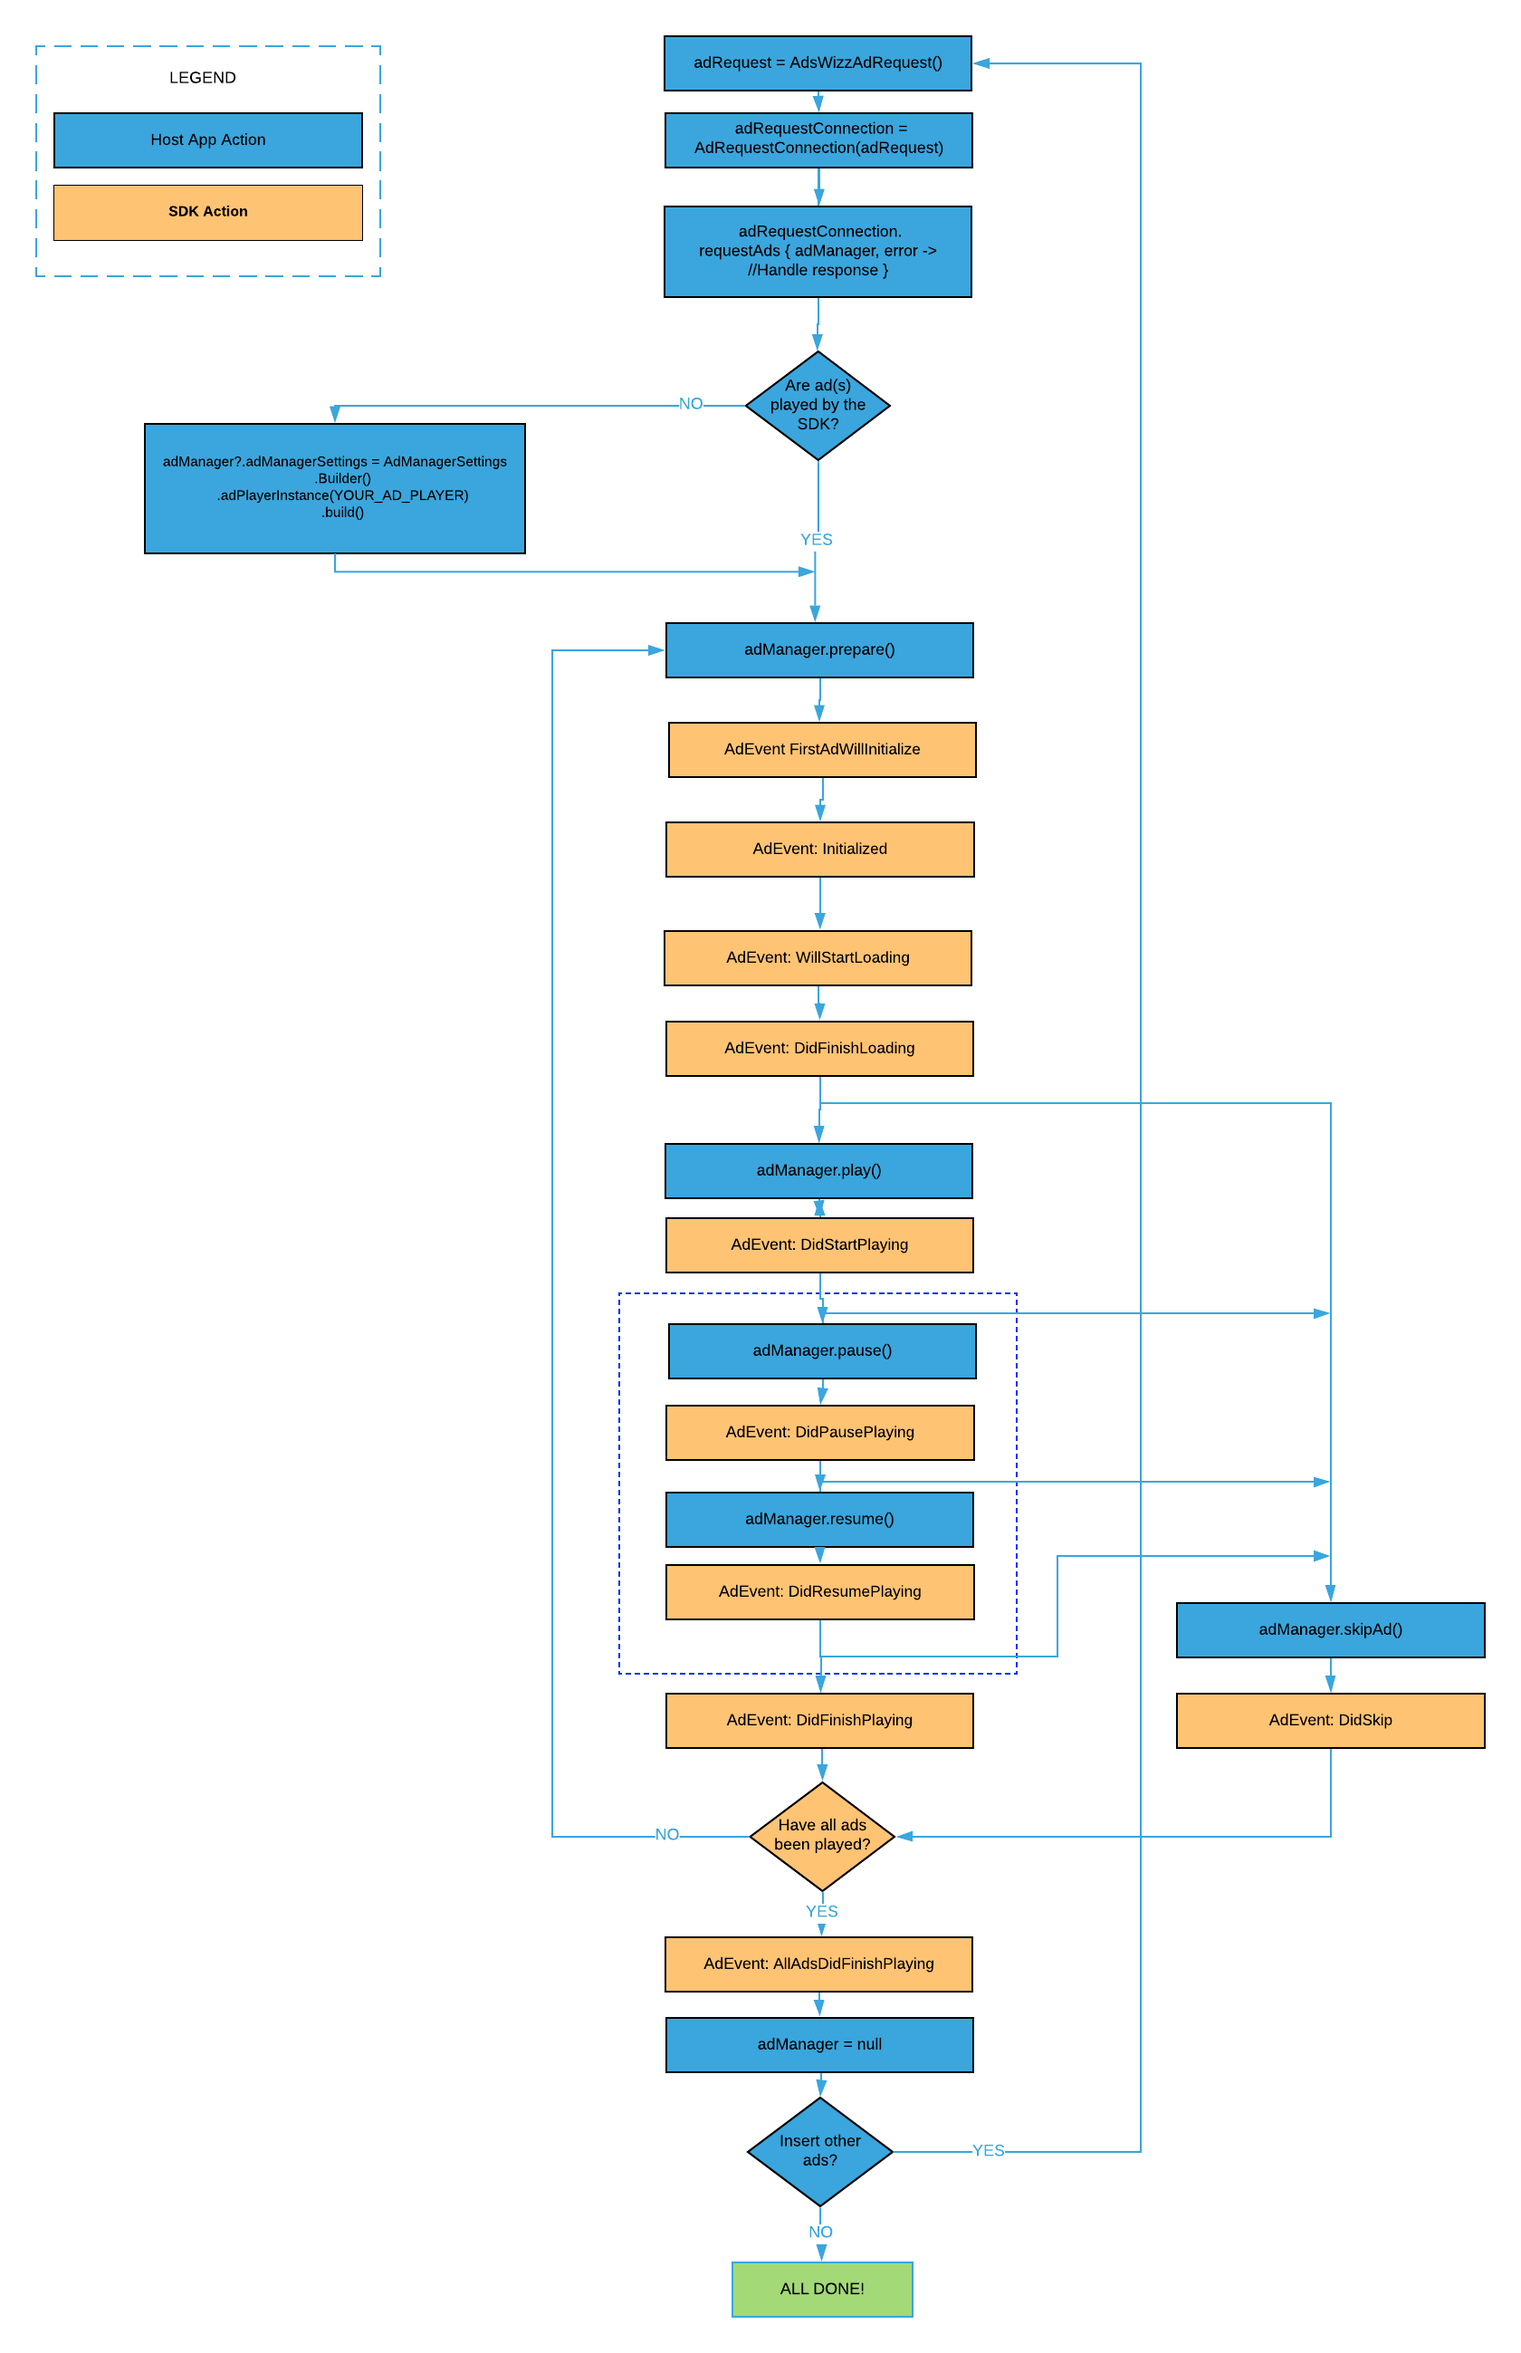
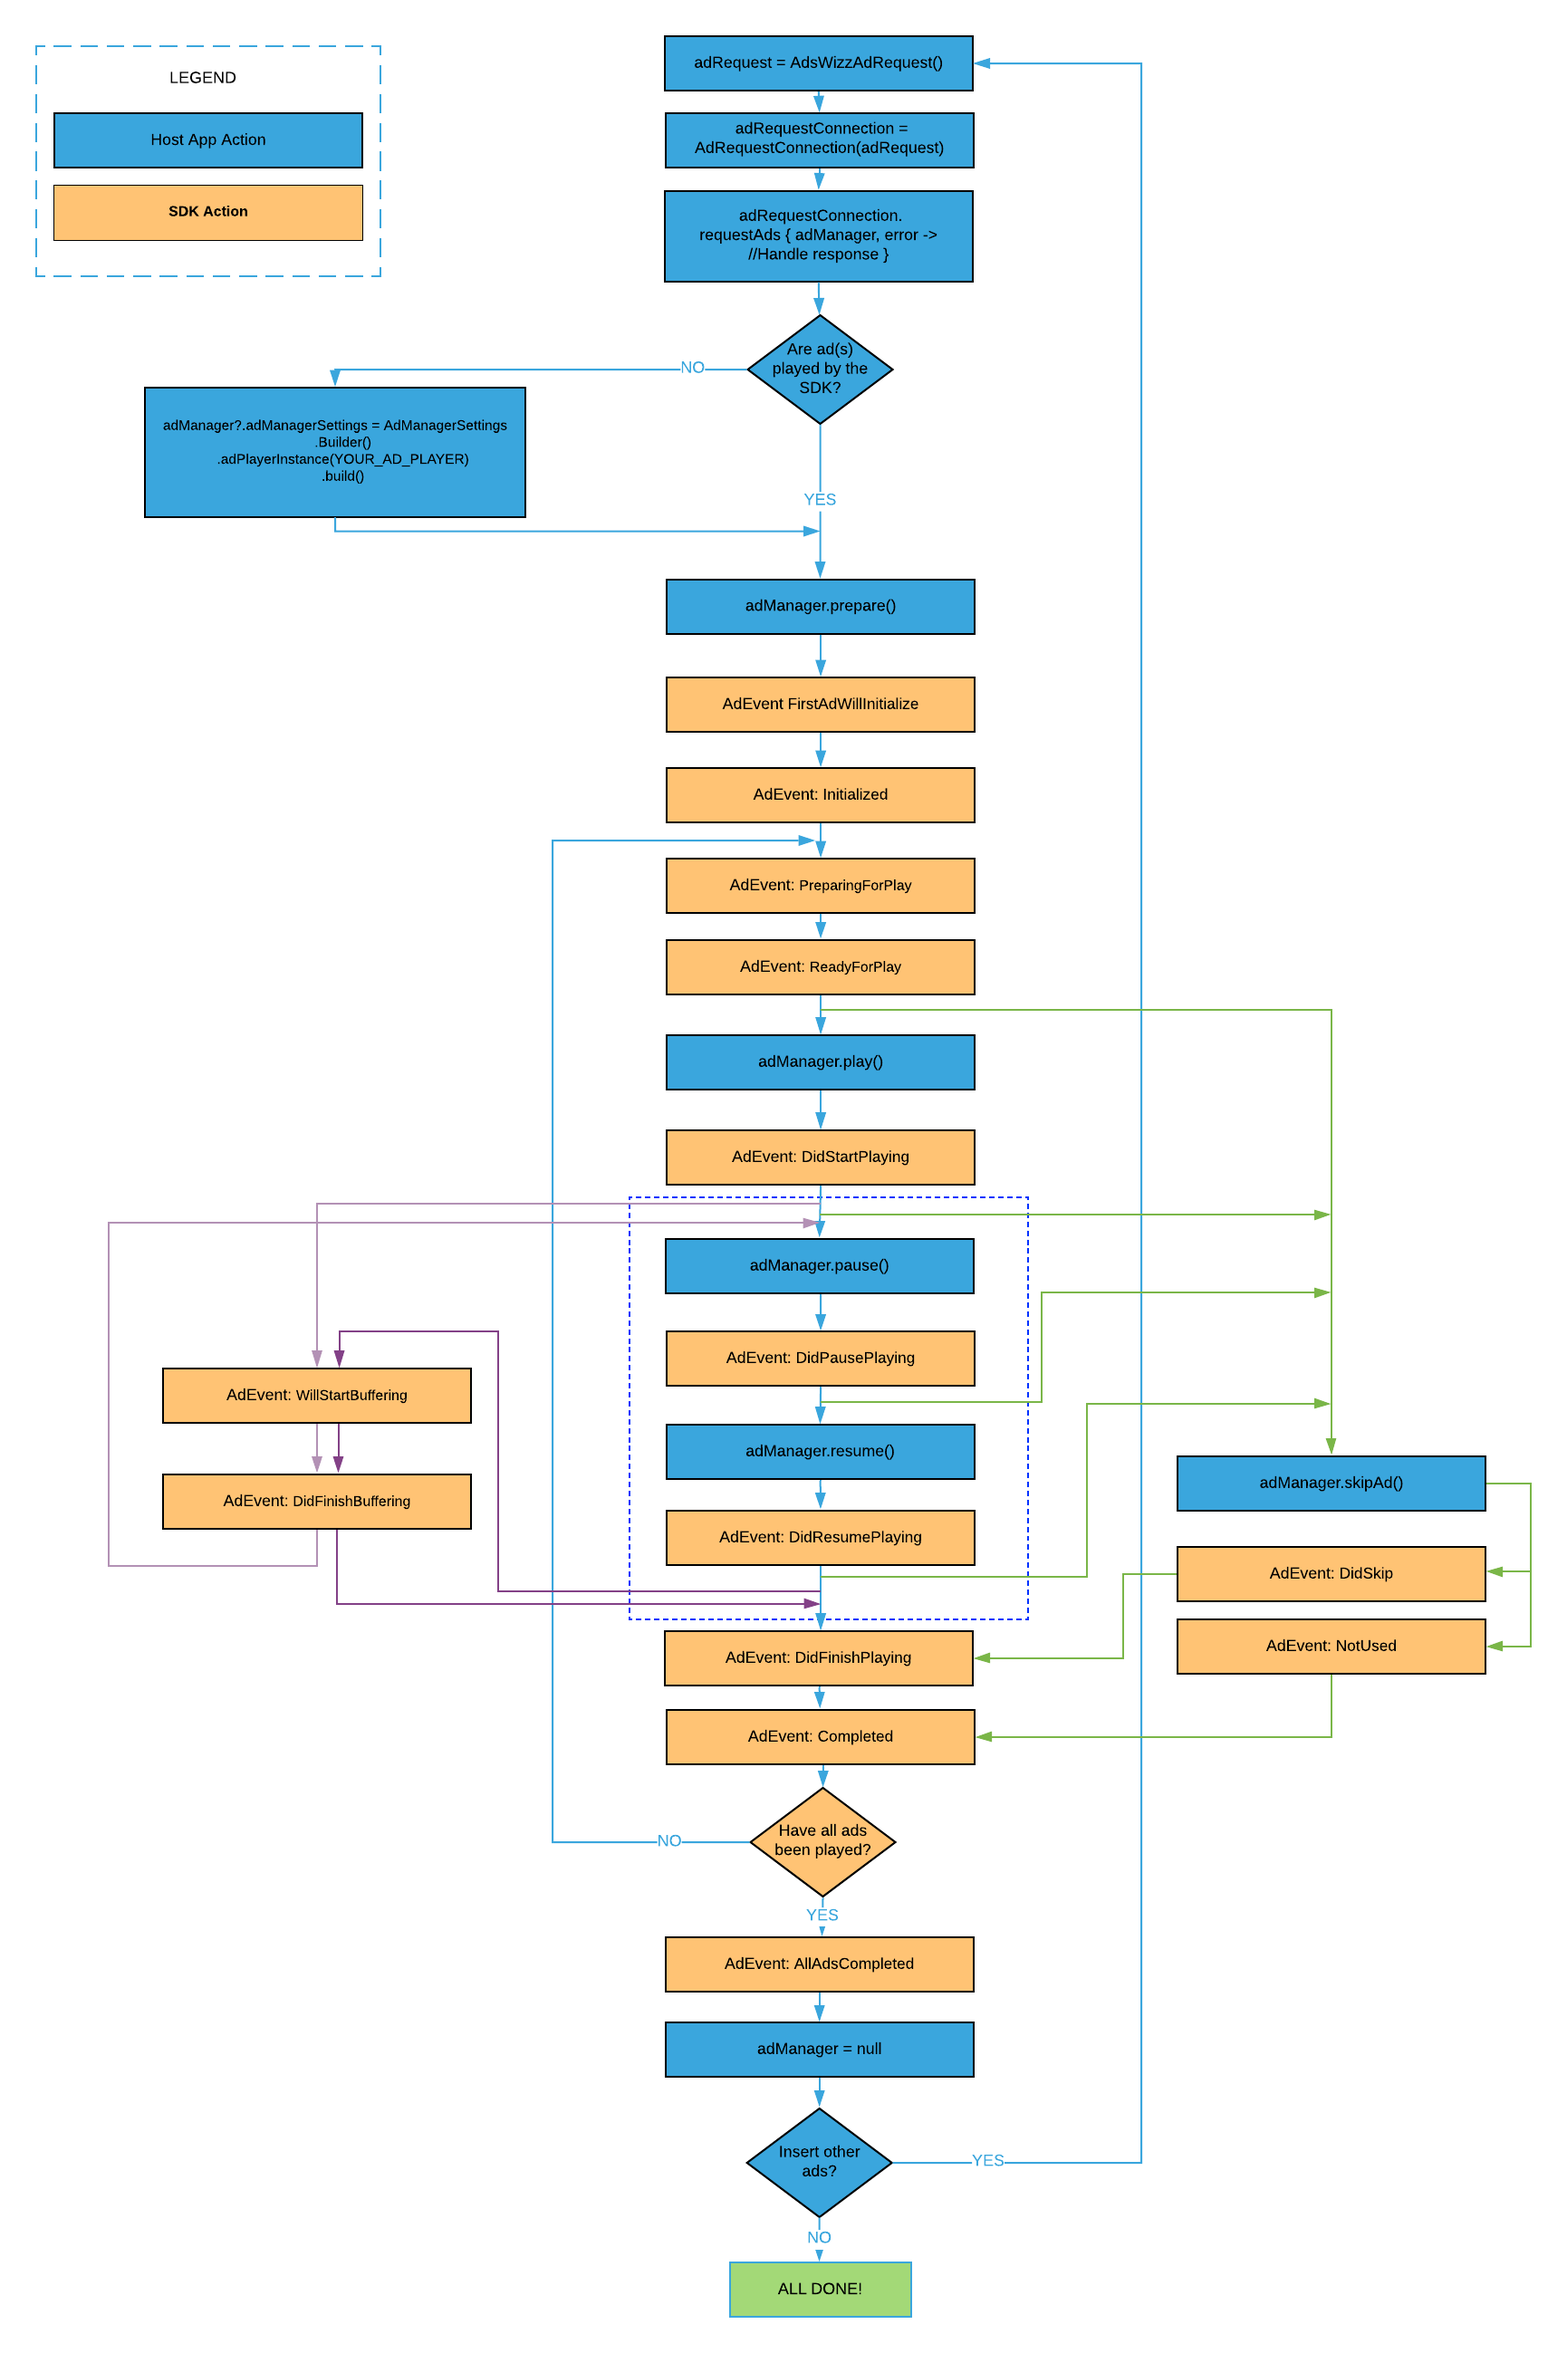
AdManager update

diff --git a/documentation/README.md b/documentation/README.md
@@ -318,18 +318,18 @@ As a result, of this call the SDK will provide you with an error if the call was
 
 ## Working with AdManager object
 
-If the request to the AdsWizz Ad server was a success, the SDK will return an AdManager object which you will own and will be the way the SDK will communicate events back to your application. \
+If the request to the AdsWizz Ad server was a success, the SDK will return an AdManager object which you will own and will be the way the SDK will communicate events back to your application.
 To get this communication channel open, you need to set up a listener for the AdManager that conforms to the AdManagerListener interface. The AdManager will call:
 
 `onEventReceived(adManager: AdManager, event: AdEvent)` whenever events of interest might happen in the SDK. Consult AdEvent.Type for a list of possible events from the AdswizzSDK.
 
-If an error happens in the SDK while using this object, `onEventErrorReceived(adManager: AdManager, ad: AdData?, error: Error)` will be called
+If an error happens in the SDK while using this object, `onEventErrorReceived(adManager: AdManager, ad: AdData?, error: Error)` will be called.
 
 As a first step, an **_AdManager_** needs to have some settings. You can create an **_AdManagerSettings_** object and pass it to your newly created instance of **_AdManager_**.
 In this object you can specify if you want to play the ad with the SDK’s internal player or a player of your choice that must conform to **_AdPlayer_** interface.
 
 Next, you need to call prepare method on the **_AdManager_** object.
-This will buffer the ads if you decide the play them with the internal player. Here is how it looks like.
+This will buffer the ads if you decide to play them with the internal player. Here is how it looks like.
 
 ```kotlin
 class MainActivity : AppCompatActivity(), AdManagerListener {
@@ -369,13 +369,13 @@ class MainActivity : AppCompatActivity(), AdManagerListener {
 
     override fun onEventReceived(adManager: AdManager, event: AdEvent) {
         when(event.type) {
-            AdEvent.Type.State.DidFinishLoading ->  {
+            AdEvent.Type.State.ReadyForPlay ->  {
                 adManager.play() //Start playing the next ad in the AdManager
             }
             AdEvent.Type.State.DidFinishPlaying -> {
                 // Current ad has finished playing
             }
-            AdEvent.Type.State.AllAdsDidFinishPlaying -> {
+            AdEvent.Type.State.AllAdsCompleted -> {
                 // All ads from the AdManager have finished
             }
 
@@ -397,15 +397,12 @@ Once presented with an AdManager, one could call different actions on the AdMana
 ## AdManager interface
 ### prepare
 
-You call this method to begin to cycle through the ads in the AdManager. If you decided to let the SDK handle the
-playing of the ads this method ensures that the internal player is starting to buffer enough data so that ad playing
-starts smoothly. Upon calling this method the first ad starts loading. The SDK will trigger
-**_WillStartLoading_** event informing your app that buffering has begun for the ad. Once buffering is done, **_DidFinishLoading_** event for the first ad will be triggered.
+You call this method to begin to cycle through the ads in the AdManager. This method ensures that the player is starting to buffer enough data so that ad playing starts smoothly. Upon calling this method the first ad starts loading. The SDK will trigger **_PreparingForPlay_** event informing your app that buffering has begun for the ad. Once buffering is done, **_ReadyForPlay_** event for the first ad will be triggered.
 
 
 ### play
 
-Call **_play_** when you want to play the ads. This should be done after the callback **_DidFinishLoading_** was triggered. The SDK will respond with the callback **_DidStartPlaying_**. If the playing was pause use **_resume_** function instead, to resume playing.
+Call **_play_** when you want to play the ads. This should be done after the callback **_ReadyForPlay_** was triggered. The SDK will respond with the callback **_DidStartPlaying_**. If the playing was pause use **_resume_** function instead, to resume playing.
 
 
 ### pause
@@ -421,15 +418,15 @@ Call **_resume_** when you want to play the ads after a pause. The SDK will trig
 ### skipAd
 
 If you need to skip an ad you can call this method to skip the current ad from the AdManager. Your app will receive
-a **_DidSkip_** event for the current ad and if the AdManager has a new ad you will receive
-**_WillStartLoading_** for that one. If no ads are available, an **_AllAdsDidFinishPlaying_** will be sent,
-signaling that all ads got processed in the AdManager.
+a **_DidSkip_** or **_NotUsed_** event for the current ad and if the AdManager has a new ad you will receive
+**_PreparingForPlay_** for that one. If no ads are available, an **_AllAdsCompleted_** will be sent,
+signalling that all ads got processed in the AdManager.
 
 
 ### reset
 
-If you decide to skip all ads in the AdManager from the current one you can call this method. For each ad skipped
-your app will trigger **_DidSkip_** and a **_AllAdsDidFinishPlaying_** event will be sent at the end.
+If you decide to skip all ads in the AdManager from the current one you can call this method. For the current ad skipped
+your app will trigger **_DidSkip_** or **_NotUsed_** and for the rest **_NotUsed_**. A **_AllAdsCompleted_** event will be sent at the end.
 Looping through the ad again will need a call to **_prepare_** function.</br>
 
 Below is a descriptive graph with all this information:
